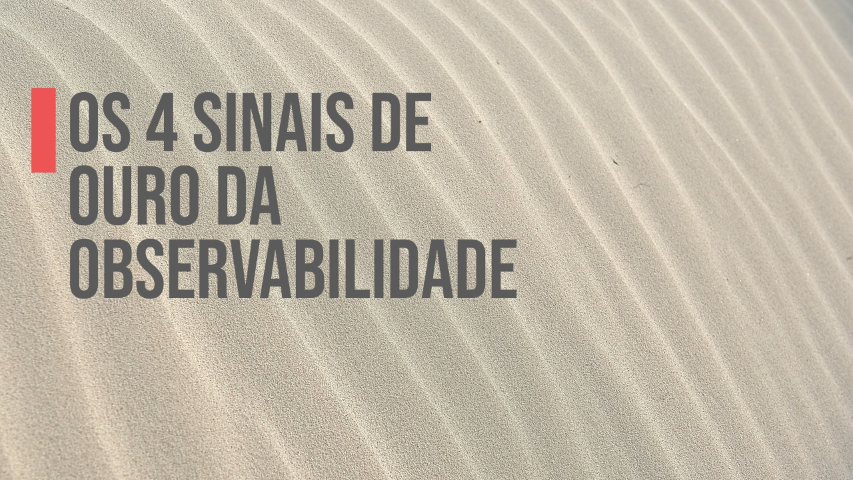
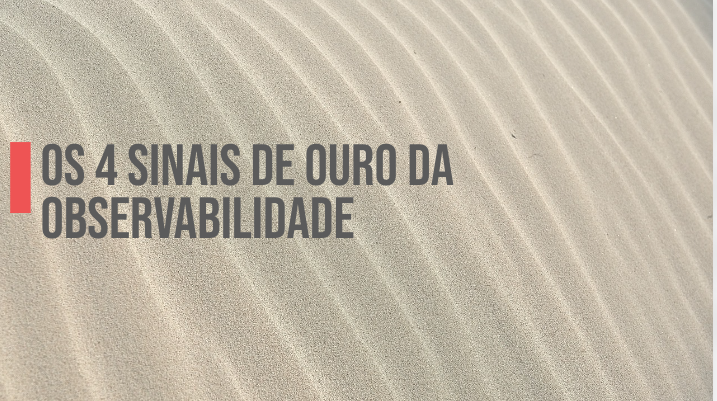
featured image sidneiweber/website@44b5ac1d2057449731ac5fe2fbb7febc87b2b758

diff --git a/os-quatro-sinais-ouro-observabilidade/index.html b/os-quatro-sinais-ouro-observabilidade/index.html
@@ -1,4 +1,4 @@
-<!doctype html><html lang=en><head><meta charset=utf-8><meta name=viewport content="width=device-width,initial-scale=1"><meta name=robots content="noodp"><title>Os quatro sinais de ouro da observabilidade - Sidnei Weber</title><meta name=Description content="Muito além das métricas de CPU e memória podemos ter métricas efetivas e que nos ajudam a entender a saúde do nosso ambiente e resolver problemas de forma mais rápida caso eles ocorram.."><meta property="og:title" content="Os quatro sinais de ouro da observabilidade"><meta property="og:description" content="Muito além das métricas de CPU e memória podemos ter métricas efetivas e que nos ajudam a entender a saúde do nosso ambiente e resolver problemas de forma mais rápida caso eles ocorram.."><meta property="og:type" content="article"><meta property="og:url" content="https://sidneiweber.com.br/os-quatro-sinais-ouro-observabilidade/"><meta property="og:image" content="https://sidneiweber.com.br/os-quatro-sinais-ouro-observabilidade/featured-image.jpg"><meta property="article:section" content="posts"><meta property="article:published_time" content="2023-02-02T16:00:00+00:00"><meta property="article:modified_time" content="2023-02-02T16:00:00+00:00"><meta property="og:site_name" content="Sidnei Weber"><meta name=twitter:card content="summary_large_image"><meta name=twitter:image content="https://sidneiweber.com.br/os-quatro-sinais-ouro-observabilidade/featured-image.jpg"><meta name=twitter:title content="Os quatro sinais de ouro da observabilidade"><meta name=twitter:description content="Muito além das métricas de CPU e memória podemos ter métricas efetivas e que nos ajudam a entender a saúde do nosso ambiente e resolver problemas de forma mais rápida caso eles ocorram.."><meta name=application-name content="Sidnei Weber"><meta name=apple-mobile-web-app-title content="Sidnei Weber"><meta name=theme-color content="#ffffff"><meta name=msapplication-TileColor content="#da532c"><link rel="shortcut icon" type=image/x-icon href=/favicon.ico><link rel=icon type=image/png sizes=32x32 href=/favicon-32x32.png><link rel=icon type=image/png sizes=16x16 href=/favicon-16x16.png><link rel=apple-touch-icon sizes=180x180 href=/apple-touch-icon.png><link rel=mask-icon href=/safari-pinned-tab.svg color=#5bbad5><link rel=manifest href=/site.webmanifest><link rel=canonical href=https://sidneiweber.com.br/os-quatro-sinais-ouro-observabilidade/><link rel=prev href=https://sidneiweber.com.br/simular-trafego-usuario-servidor/><link rel=stylesheet href=/css/style.min.css><link rel=preload href=https://cdn.jsdelivr.net/npm/@fortawesome/fontawesome-free@6.1.1/css/all.min.css as=style onload='this.onload=null,this.rel="stylesheet"'><noscript><link rel=stylesheet href=https://cdn.jsdelivr.net/npm/@fortawesome/fontawesome-free@6.1.1/css/all.min.css></noscript><link rel=preload href=https://cdn.jsdelivr.net/npm/animate.css@4.1.1/animate.min.css as=style onload='this.onload=null,this.rel="stylesheet"'><noscript><link rel=stylesheet href=https://cdn.jsdelivr.net/npm/animate.css@4.1.1/animate.min.css></noscript><script type=application/ld+json>{"@context":"http://schema.org","@type":"BlogPosting","headline":"Os quatro sinais de ouro da observabilidade","inLanguage":"en","mainEntityOfPage":{"@type":"WebPage","@id":"https:\/\/sidneiweber.com.br\/os-quatro-sinais-ouro-observabilidade\/"},"image":[{"@type":"ImageObject","url":"https:\/\/sidneiweber.com.br\/os-quatro-sinais-ouro-observabilidade\/featured-image.jpg","width":853,"height":480}],"genre":"posts","keywords":"observabilidade, devops, sre","wordcount":501,"url":"https:\/\/sidneiweber.com.br\/os-quatro-sinais-ouro-observabilidade\/","datePublished":"2023-02-02T16:00:00+00:00","dateModified":"2023-02-02T16:00:00+00:00","license":"This work is licensed under a Creative Commons Attribution-NonCommercial 4.0 International License.","publisher":{"@type":"Organization","name":"xxxx","logo":"https:\/\/sidneiweber.com.br\/images\/avatar.png"},"author":{"@type":"Person","name":"Sidnei Weber"},"description":"Muito além das métricas de CPU e memória podemos ter métricas efetivas e que nos ajudam a entender a saúde do nosso ambiente e resolver problemas de forma mais rápida caso eles ocorram.."}</script></head><body data-header-desktop=fixed data-header-mobile=auto><script type=text/javascript>(window.localStorage&&localStorage.getItem("theme")?localStorage.getItem("theme")==="dark":"dark"==="auto"?window.matchMedia("(prefers-color-scheme: dark)").matches:"dark"==="dark")&&document.body.setAttribute("theme","dark")</script><div id=mask></div><div class=wrapper><header class=desktop id=header-desktop><div class=header-wrapper><div class=header-title><a href=/ title="Sidnei Weber"><span class=header-title-pre><i class='fas fa-user-astronaut fa-fw' aria-hidden=true></i></span><span id=id-1 class=typeit></span></a></div><div class=menu><div class=menu-inner><a class=menu-item href=/posts/>Posts </a><a class=menu-item href=/tags/>Tags </a><a class=menu-item href=/categories/documentation/>Docs </a><a class=menu-item href=/sobre/>Sobre </a><a class=menu-item href=https://github.com/sidneiweber title=GitHub rel="noopener noreffer" target=_blank><i class='fab fa-github fa-fw' aria-hidden=true></i> </a><span class="menu-item delimiter"></span><span class="menu-item search" id=search-desktop>
+<!doctype html><html lang=en><head><meta charset=utf-8><meta name=viewport content="width=device-width,initial-scale=1"><meta name=robots content="noodp"><title>Os quatro sinais de ouro da observabilidade - Sidnei Weber</title><meta name=Description content="Muito além das métricas de CPU e memória podemos ter métricas efetivas e que nos ajudam a entender a saúde do nosso ambiente e resolver problemas de forma mais rápida caso eles ocorram.."><meta property="og:title" content="Os quatro sinais de ouro da observabilidade"><meta property="og:description" content="Muito além das métricas de CPU e memória podemos ter métricas efetivas e que nos ajudam a entender a saúde do nosso ambiente e resolver problemas de forma mais rápida caso eles ocorram.."><meta property="og:type" content="article"><meta property="og:url" content="https://sidneiweber.com.br/os-quatro-sinais-ouro-observabilidade/"><meta property="og:image" content="https://sidneiweber.com.br/os-quatro-sinais-ouro-observabilidade/featured-image.jpg"><meta property="article:section" content="posts"><meta property="article:published_time" content="2023-02-02T16:00:00+00:00"><meta property="article:modified_time" content="2023-02-02T16:00:00+00:00"><meta property="og:site_name" content="Sidnei Weber"><meta name=twitter:card content="summary_large_image"><meta name=twitter:image content="https://sidneiweber.com.br/os-quatro-sinais-ouro-observabilidade/featured-image.jpg"><meta name=twitter:title content="Os quatro sinais de ouro da observabilidade"><meta name=twitter:description content="Muito além das métricas de CPU e memória podemos ter métricas efetivas e que nos ajudam a entender a saúde do nosso ambiente e resolver problemas de forma mais rápida caso eles ocorram.."><meta name=application-name content="Sidnei Weber"><meta name=apple-mobile-web-app-title content="Sidnei Weber"><meta name=theme-color content="#ffffff"><meta name=msapplication-TileColor content="#da532c"><link rel="shortcut icon" type=image/x-icon href=/favicon.ico><link rel=icon type=image/png sizes=32x32 href=/favicon-32x32.png><link rel=icon type=image/png sizes=16x16 href=/favicon-16x16.png><link rel=apple-touch-icon sizes=180x180 href=/apple-touch-icon.png><link rel=mask-icon href=/safari-pinned-tab.svg color=#5bbad5><link rel=manifest href=/site.webmanifest><link rel=canonical href=https://sidneiweber.com.br/os-quatro-sinais-ouro-observabilidade/><link rel=prev href=https://sidneiweber.com.br/simular-trafego-usuario-servidor/><link rel=stylesheet href=/css/style.min.css><link rel=preload href=https://cdn.jsdelivr.net/npm/@fortawesome/fontawesome-free@6.1.1/css/all.min.css as=style onload='this.onload=null,this.rel="stylesheet"'><noscript><link rel=stylesheet href=https://cdn.jsdelivr.net/npm/@fortawesome/fontawesome-free@6.1.1/css/all.min.css></noscript><link rel=preload href=https://cdn.jsdelivr.net/npm/animate.css@4.1.1/animate.min.css as=style onload='this.onload=null,this.rel="stylesheet"'><noscript><link rel=stylesheet href=https://cdn.jsdelivr.net/npm/animate.css@4.1.1/animate.min.css></noscript><script type=application/ld+json>{"@context":"http://schema.org","@type":"BlogPosting","headline":"Os quatro sinais de ouro da observabilidade","inLanguage":"en","mainEntityOfPage":{"@type":"WebPage","@id":"https:\/\/sidneiweber.com.br\/os-quatro-sinais-ouro-observabilidade\/"},"image":[{"@type":"ImageObject","url":"https:\/\/sidneiweber.com.br\/os-quatro-sinais-ouro-observabilidade\/featured-image.jpg","width":717,"height":401}],"genre":"posts","keywords":"observabilidade, devops, sre","wordcount":501,"url":"https:\/\/sidneiweber.com.br\/os-quatro-sinais-ouro-observabilidade\/","datePublished":"2023-02-02T16:00:00+00:00","dateModified":"2023-02-02T16:00:00+00:00","license":"This work is licensed under a Creative Commons Attribution-NonCommercial 4.0 International License.","publisher":{"@type":"Organization","name":"xxxx","logo":"https:\/\/sidneiweber.com.br\/images\/avatar.png"},"author":{"@type":"Person","name":"Sidnei Weber"},"description":"Muito além das métricas de CPU e memória podemos ter métricas efetivas e que nos ajudam a entender a saúde do nosso ambiente e resolver problemas de forma mais rápida caso eles ocorram.."}</script></head><body data-header-desktop=fixed data-header-mobile=auto><script type=text/javascript>(window.localStorage&&localStorage.getItem("theme")?localStorage.getItem("theme")==="dark":"dark"==="auto"?window.matchMedia("(prefers-color-scheme: dark)").matches:"dark"==="dark")&&document.body.setAttribute("theme","dark")</script><div id=mask></div><div class=wrapper><header class=desktop id=header-desktop><div class=header-wrapper><div class=header-title><a href=/ title="Sidnei Weber"><span class=header-title-pre><i class='fas fa-user-astronaut fa-fw' aria-hidden=true></i></span><span id=id-1 class=typeit></span></a></div><div class=menu><div class=menu-inner><a class=menu-item href=/posts/>Posts </a><a class=menu-item href=/tags/>Tags </a><a class=menu-item href=/categories/documentation/>Docs </a><a class=menu-item href=/sobre/>Sobre </a><a class=menu-item href=https://github.com/sidneiweber title=GitHub rel="noopener noreffer" target=_blank><i class='fab fa-github fa-fw' aria-hidden=true></i> </a><span class="menu-item delimiter"></span><span class="menu-item search" id=search-desktop>
 <input type=text placeholder="Search titles or contents..." id=search-input-desktop>
 <a href=javascript:void(0); class="search-button search-toggle" id=search-toggle-desktop title=Search><i class="fas fa-search fa-fw" aria-hidden=true></i></a>
 <a href=javascript:void(0); class="search-button search-clear" id=search-clear-desktop title=Clear><i class="fas fa-times-circle fa-fw" aria-hidden=true></i></a>
